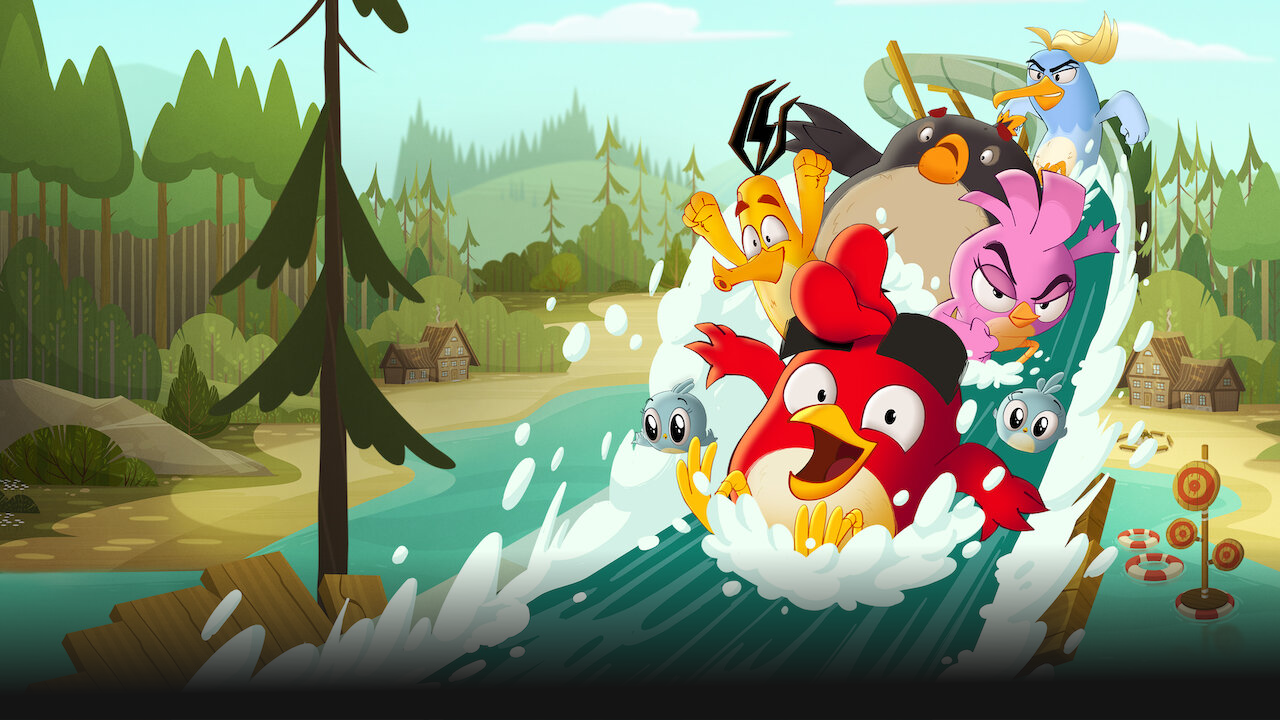
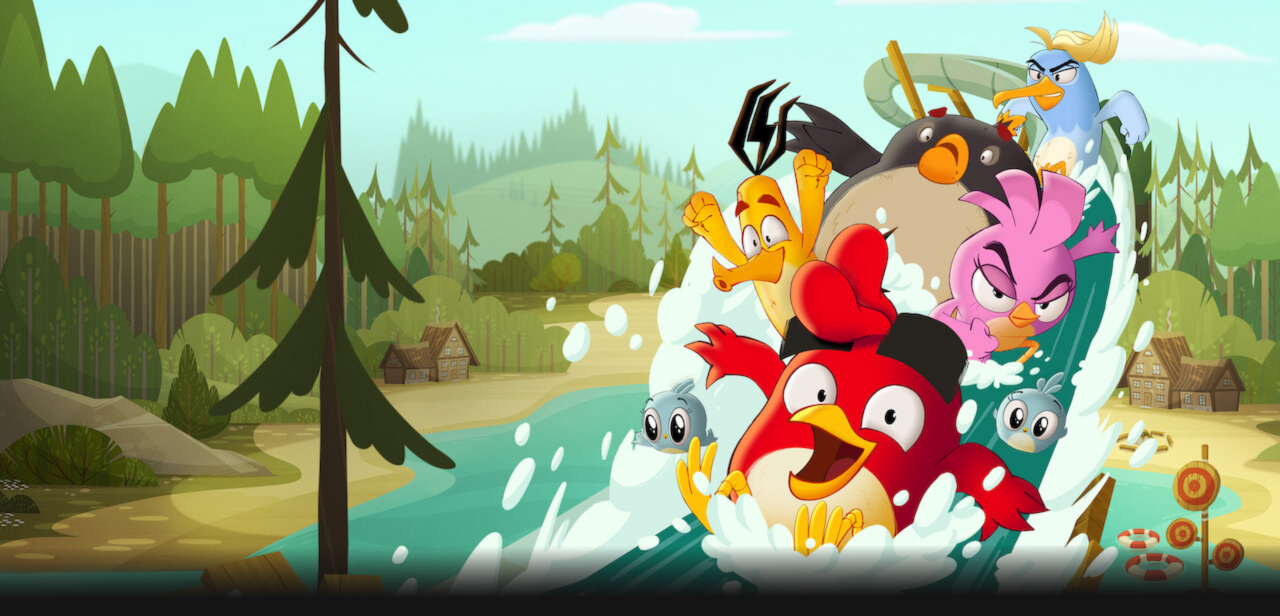
Update

diff --git a/html/netflix.html b/html/netflix.html
@@ -12,7 +12,11 @@
     <!-- ====== Importação de fontes Google Fonts ====== -->
     <link rel="preconnect" href="https://fonts.googleapis.com">
     <link rel="preconnect" href="https://fonts.gstatic.com" crossorigin>
-    <link href="https://fonts.googleapis.com/css2?family=Roboto:wght@300;400;500;700&display=swap" rel="stylesheet"> 
+    <link href="https://fonts.googleapis.com/css2?family=Roboto:wght@300;400;500;700&display=swap" rel="stylesheet">
+
+    <!-- ====== Importação do Swiper para o carrossel ====== -->
+
+    <link rel="stylesheet" href="https://unpkg.com/swiper@8/swiper-bundle.min.css"/>
 
     <!-- ====== Importação de CSS ====== -->
     <link rel="stylesheet" href="../css/setup.css">
@@ -144,7 +148,7 @@
 
         <section class="background">
             <div class="background-image">
-                <img src="..//images/background-top-sombra.png" alt="">
+                <img src="..//images/background-top-shadow.png" alt="">
             </div>
             <div class="box-banner">
                 <img class="banner" src="../images/tilte-background-top.png" alt="">
@@ -164,10 +168,27 @@
         <!-- ====== Desenvolvimento do carrossel de filmes ====== -->
 
         <section class="carrossel">
-            <div class="title-carrossel">
+            <div class="title-carrossel-topo">
                 <h2>Populares na Netflix</h2>
             </div>
-
+            <div class="swiper swiper-topo">
+                <div class="swiper-wrapper">
+                    <div class="swiper-slide"><img src="../images/Filme-01.jpg" alt="" class="filme"></div>
+                    <div class="swiper-slide"><img src="../images/Filme-02.jpg" alt="" class="filme"></div>
+                    <div class="swiper-slide"><img src="../images/Filme-03.jpg" alt="" class="filme"></div>
+                    <div class="swiper-slide"><img src="../images/Filme-04.jpg" alt="" class="filme"></div>
+                    <div class="swiper-slide"><img src="../images/Filme-05.jpg" alt="" class="filme"></div>
+                    <div class="swiper-slide"><img src="../images/Filme-06.jpg" alt="" class="filme"></div>
+                    <div class="swiper-slide"><img src="../images/Filme-07.jpg" alt="" class="filme"></div>
+                    <div class="swiper-slide"><img src="../images/Filme-08.jpg" alt="" class="filme"></div>
+                    <div class="swiper-slide"><img src="../images/Filme-09.jpg" alt="" class="filme"></div>
+                    <div class="swiper-slide"><img src="../images/Filme-10.jpg" alt="" class="filme"></div>
+                    <div class="swiper-slide"><img src="../images/Filme-11.jpg" alt="" class="filme"></div>
+                    <div class="swiper-slide"><img src="../images/Filme-12.jpg" alt="" class="filme"></div>
+                </div>
+                <div class="swiper-button-prev" style="color: white;"></div>
+                <div class="swiper-button-next" style="color: white;"></div>
+            </div>
 
 
 
@@ -180,5 +201,7 @@
     <!-- ====== Importação de Script's (Open) ====== -->
     <script src="https://unpkg.com/boxicons@2.1.1/dist/boxicons.js"></script>
     <script src="../js/search.js"></script>
+    <script src="https://unpkg.com/swiper@8/swiper-bundle.min.js"></script>
+    <script src="../js/swiper.js"></script>
 </body>
 </html>

diff --git a/css/main-setup.css b/css/main-setup.css
@@ -18,11 +18,10 @@
 }
 
 .background .box-banner {
-    width: 40vw;
-    height: 450px;
-    
+    width: 40%;
+    height: 40%;
     position: absolute;
-    top: 200px;
+    top: 13vw;
     left: 60px;
     display: flex;
     flex-direction: column;
@@ -36,7 +35,7 @@
 
 .background .box-banner .title-banner {
     font-family: 'Roboto', sans-serif;
-    font-size: 20px;
+    font-size: 1.5vw;
     color: white;
     font-weight: bold;
     text-shadow: 2px 2px 4px rgba(0, 0, 0, 0.45);
@@ -45,7 +44,7 @@
 
 .background .box-banner .text-banner {
     font-family: 'Roboto', sans-serif;
-    font-size: 18px;
+    font-size: 1.3vw;
     color: white;
     font-weight: 400;
     text-shadow: 2px 2px 4px rgba(0, 0, 0, 0.45);
@@ -74,7 +73,7 @@
     border: none;
     border-radius: 5px;
     font-family: 'Roboto', sans-serif;
-    font-size: 18px;
+    font-size: 1.3vw;
     color: black;
     font-weight: bold;
     background-color: white;
@@ -95,7 +94,7 @@
     border-radius: 5px;
     margin-left: 15px;
     font-family: 'Roboto', sans-serif;
-    font-size: 18px;
+    font-size: 1.3vw;
     color: white;
     font-weight: bold;
     background-color: rgba(109, 109, 110, 0.6);
@@ -110,4 +109,38 @@
 
 .carrossel {
     background-color: var(--dark);
+    height: 700px;
 }
+
+.carrossel .title-carrossel-topo {
+    color: white;
+    text-shadow: 2px 2px 4px rgba(0, 0, 0, 0.45);
+    font-family: 'Roboto', sans-serif;
+    font-size: 1.6vw;
+    margin-bottom: 30px;
+    margin-left: 60px;
+    
+}
+
+.carrossel .swiper {
+    width: 100%;
+    height: 100%;
+    transition: .3s ease all;
+  }
+
+  .carrossel .swiper-topo {
+
+  }
+  
+  .carrossel .swiper .swiper-wrapper {
+      margin-left: 60px;
+      margin-bottom: 40px;
+  }
+
+  .carrossel .swiper .swiper-wrapper img {
+      width: 100%;
+      height: auto;
+      object-fit: cover;
+      cursor: pointer;
+      border-radius: 5px;
+  }

diff --git a/teste.html b/teste.html
@@ -10,6 +10,7 @@
             background-color: darkblue;
             width: 100%;
             height: 100vh;
+            background-image: url(images/background-top-shadow.png);
         }
 
         #search {
@@ -24,6 +25,7 @@
             transition-duration: .3s;
             transition-timing-function: linear;
         }
+
 
     </style>
 </head>
